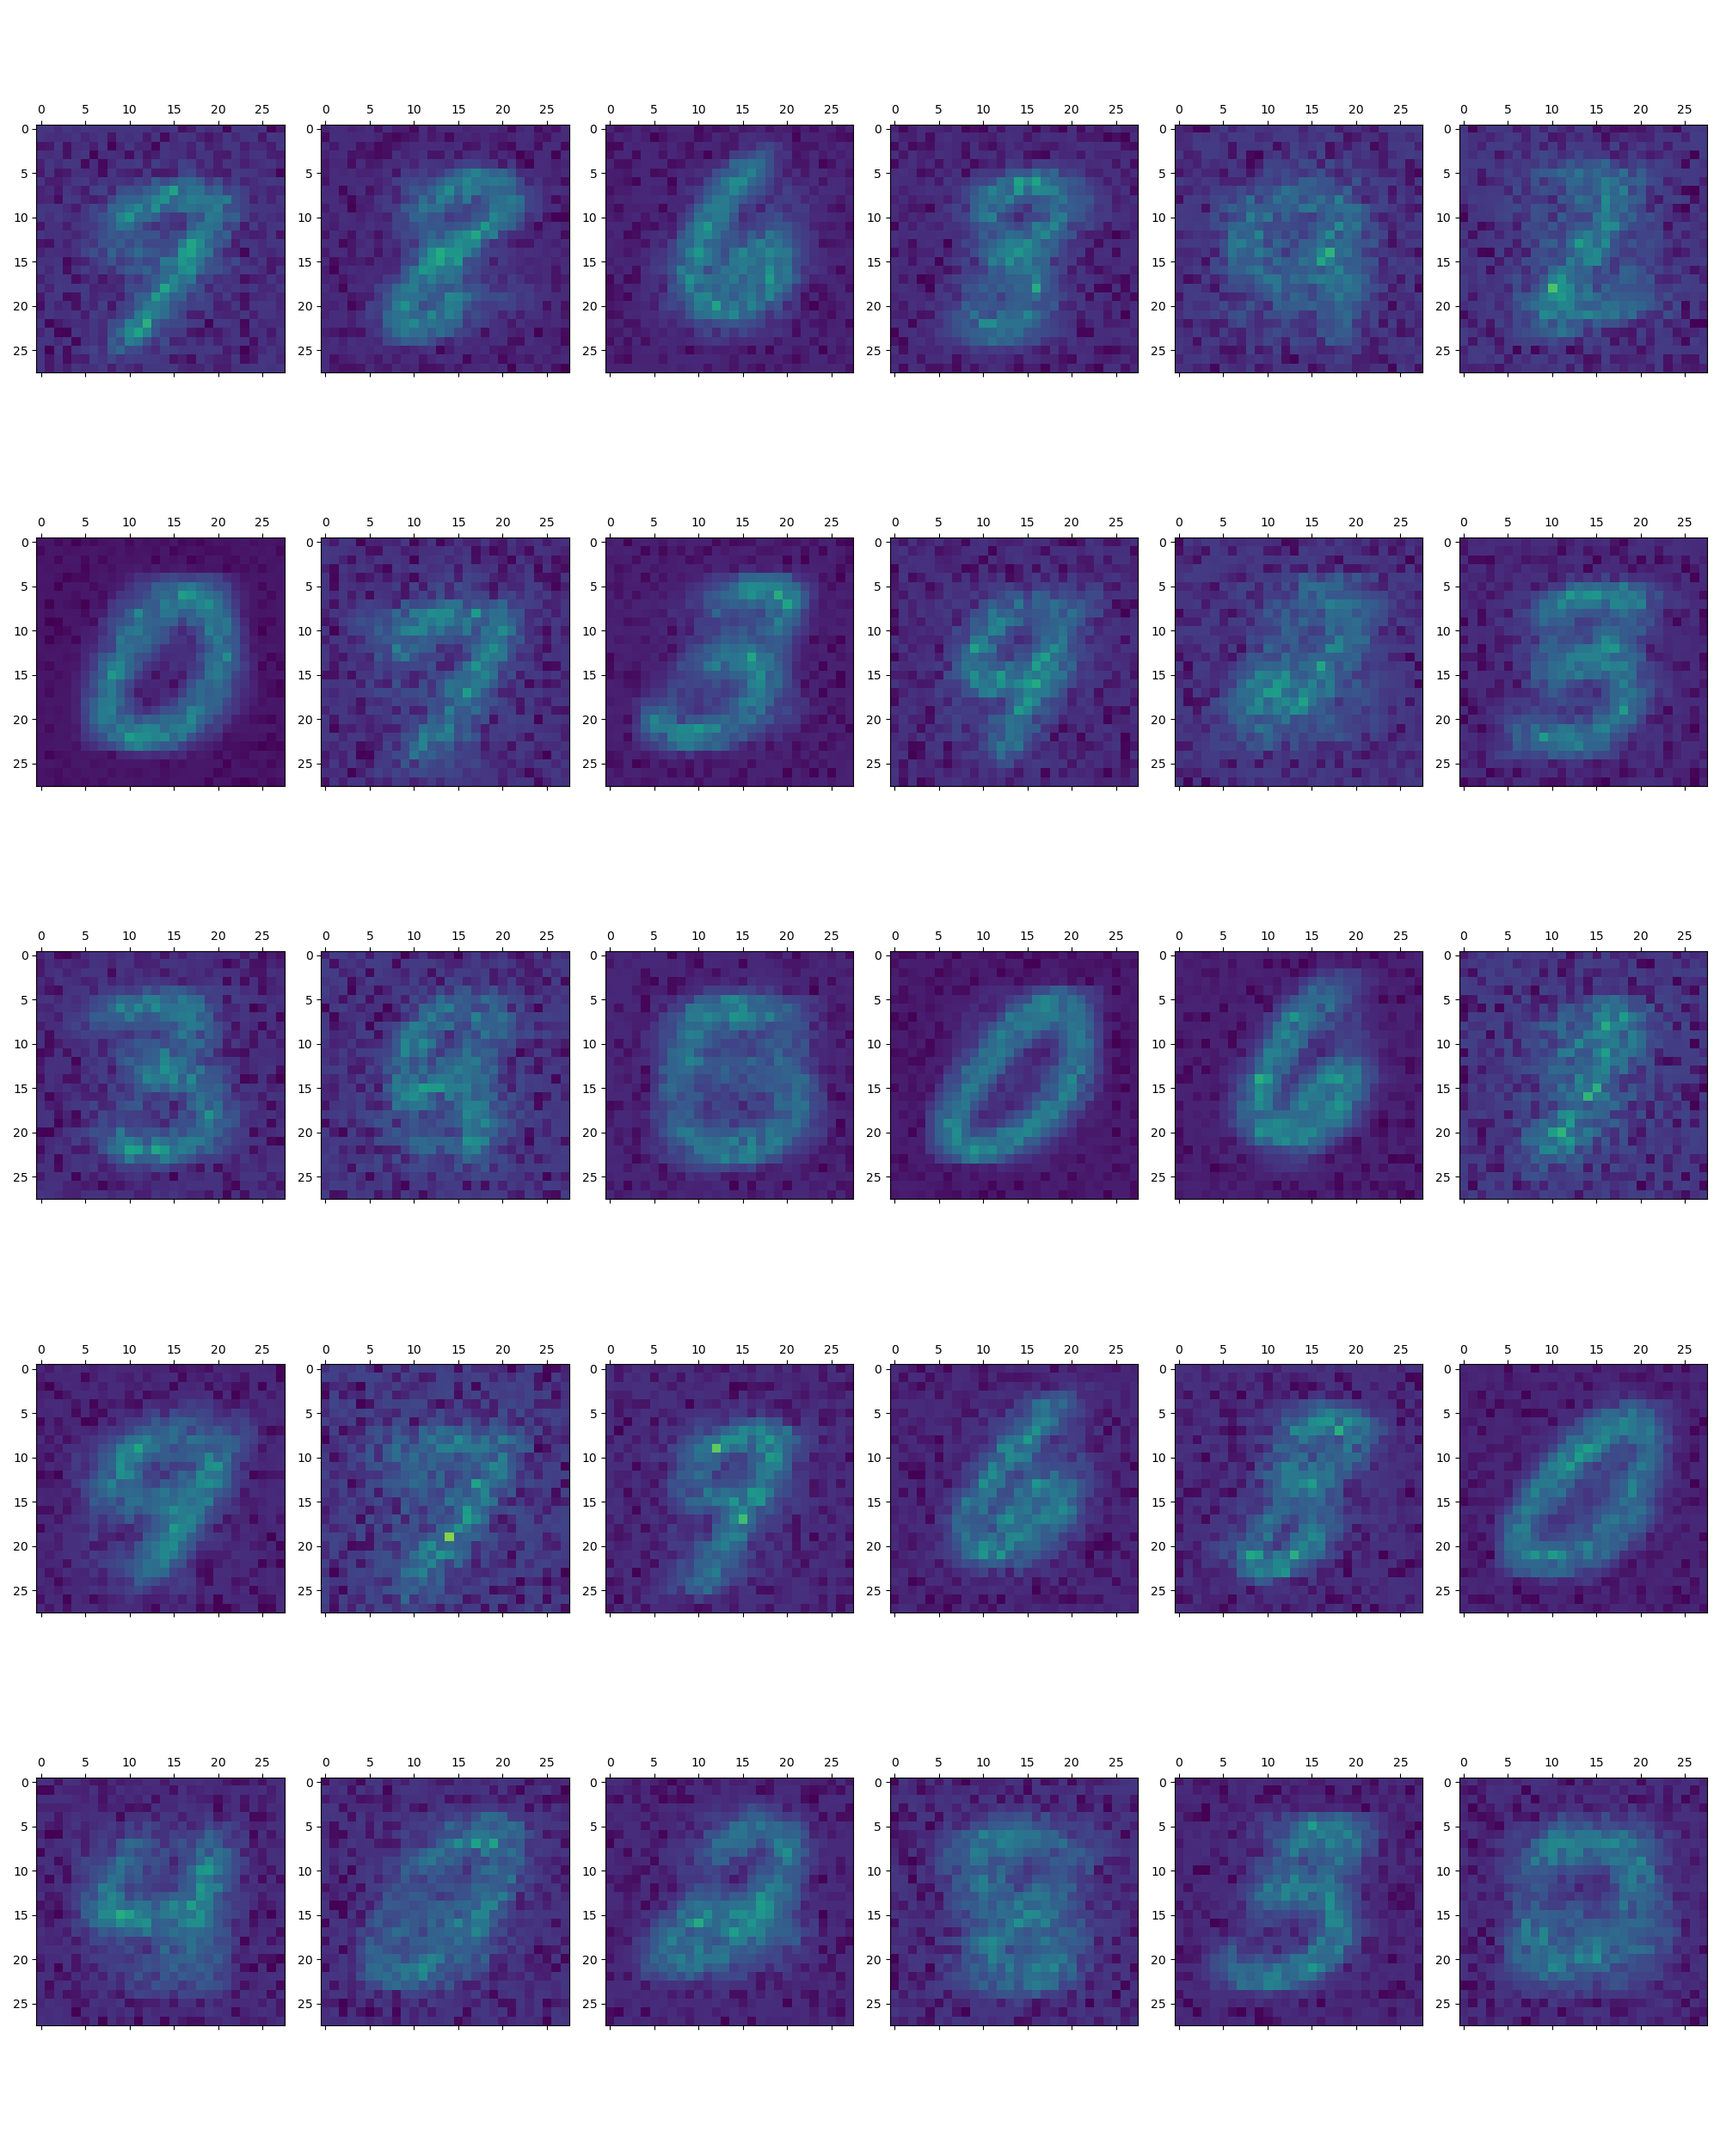
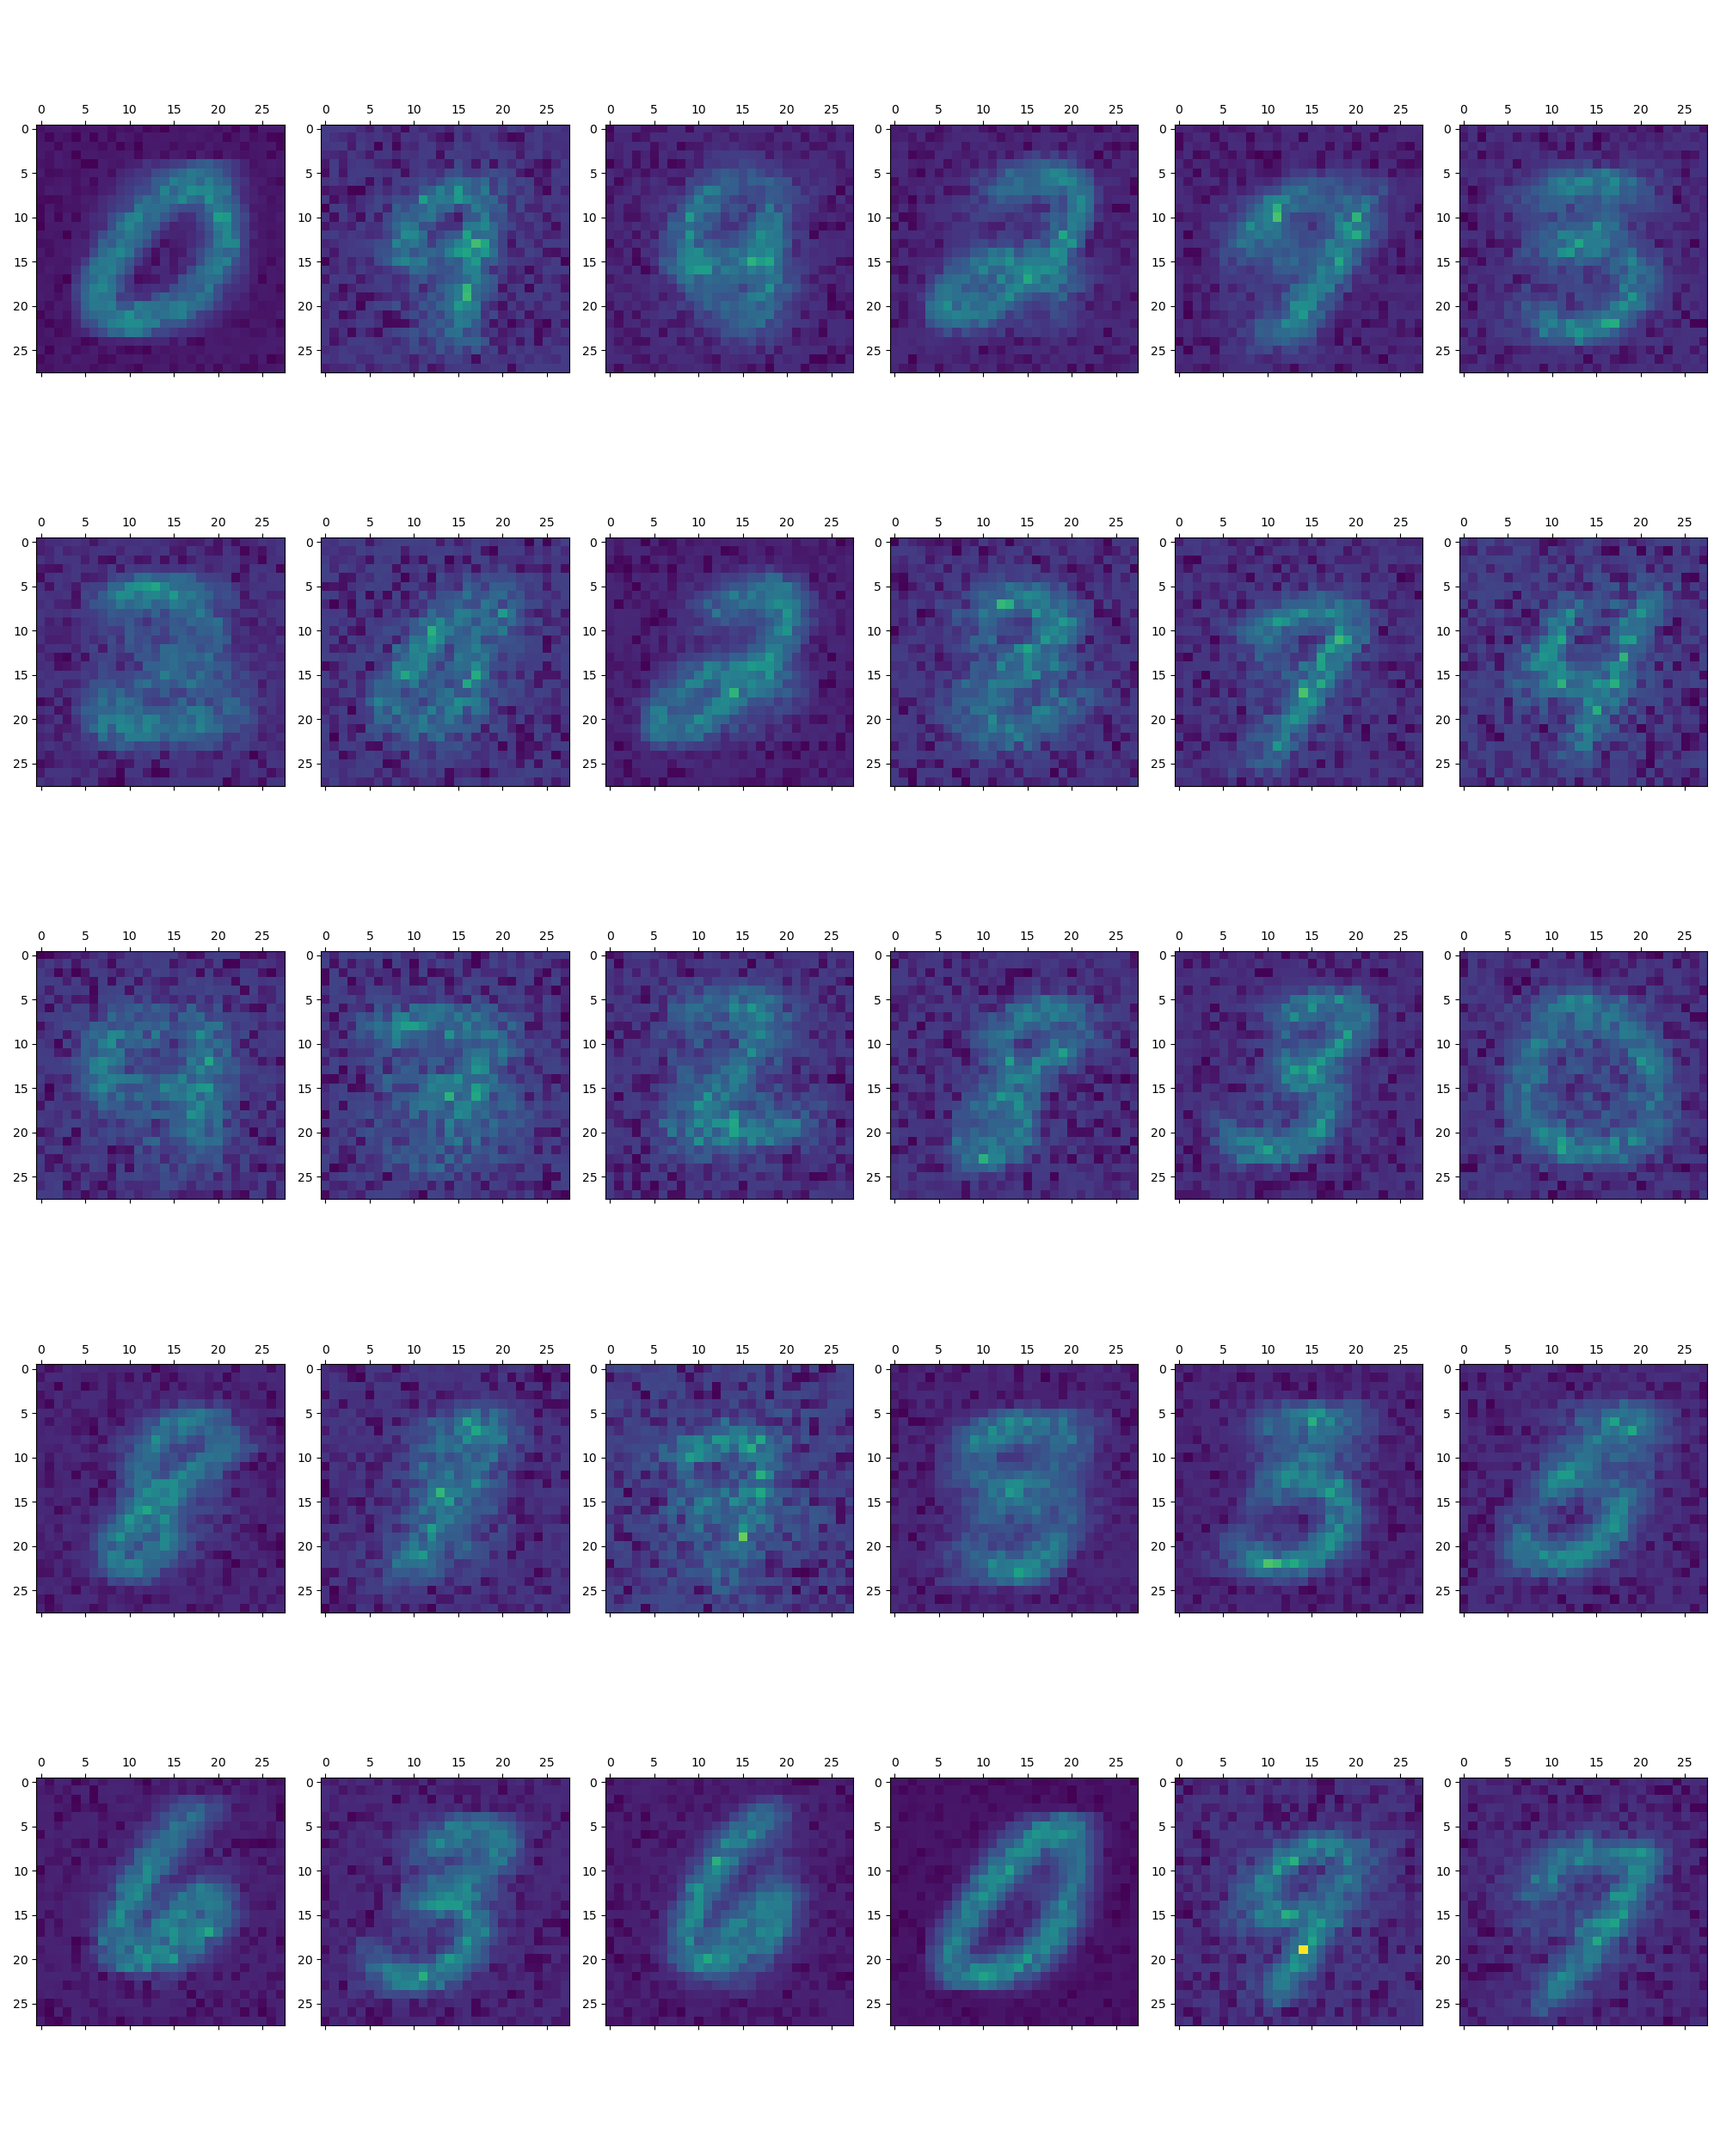
updates

diff --git a/mnist_multiple_exploration_local_tio2.py b/mnist_multiple_exploration_local_tio2.py
@@ -65,7 +65,7 @@ if __name__ == '__main__':
 		, n_neurons = [30]
 		, inhibition_time = [5,10,20]
 		, vprog_increment=[0]
-		, tau_ref=[0.001,0.002,0.003,0.004,0.005,0.01]
+		, tau_ref=[0.002,0.005,0.01]
     )
 	param_values = [v for v in parameters.values()]
 

diff --git a/mnist_multiple_exploration_tio2_v1.py b/mnist_multiple_exploration_tio2_v1.py
@@ -58,7 +58,7 @@ if __name__ == '__main__':
 		,input_nbr=[60000]
 		,tau_in = [0.06]
 		,tau_out = [0.06]
-		, lr = [1]
+		, lr = [0.1]
 		, iterations=[1]
 		, presentation_time = [0.35]
 		, dt = [0.005]

diff --git a/mnist_multiple_exploration_tio2_v2.py b/mnist_multiple_exploration_tio2_v2.py
@@ -58,7 +58,7 @@ if __name__ == '__main__':
 		,input_nbr=[60000]
 		,tau_in = [0.06]
 		,tau_out = [0.06]
-		, lr = [1]
+		, lr = [0.1]
 		, iterations=[1]
 		, presentation_time = [0.35]
 		, dt = [0.005]

diff --git a/mnist_multiple_exploration_tio2_v3.py b/mnist_multiple_exploration_tio2_v3.py
@@ -58,7 +58,7 @@ if __name__ == '__main__':
 		,input_nbr=[60000]
 		,tau_in = [0.06]
 		,tau_out = [0.06]
-		, lr = [1]
+		, lr = [0.1]
 		, iterations=[1]
 		, presentation_time = [0.35]
 		, dt = [0.005]

diff --git a/mnist_multiple_exploration_tio2_v4.py b/mnist_multiple_exploration_tio2_v4.py
@@ -58,7 +58,7 @@ if __name__ == '__main__':
 		,input_nbr=[60000]
 		,tau_in = [0.06]
 		,tau_out = [0.06]
-		, lr = [1]
+		, lr = [0.1]
 		, iterations=[1]
 		, presentation_time = [0.35]
 		, dt = [0.005]

diff --git a/mnist_multiple_exploration_tio2_v5.py b/mnist_multiple_exploration_tio2_v5.py
@@ -58,7 +58,7 @@ if __name__ == '__main__':
 		,input_nbr=[60000]
 		,tau_in = [0.06]
 		,tau_out = [0.06]
-		, lr = [1]
+		, lr = [0.1]
 		, iterations=[2]
 		, presentation_time = [0.35]
 		, dt = [0.005]

diff --git a/mnist_multiple_exploration_tio2_v6.py b/mnist_multiple_exploration_tio2_v6.py
@@ -58,7 +58,7 @@ if __name__ == '__main__':
 		,input_nbr=[60000]
 		,tau_in = [0.06]
 		,tau_out = [0.06]
-		, lr = [1]
+		, lr = [0.1]
 		, iterations=[2]
 		, presentation_time = [0.35]
 		, dt = [0.005]

diff --git a/mnist_multiple_exploration_tio2_v7.py b/mnist_multiple_exploration_tio2_v7.py
@@ -58,7 +58,7 @@ if __name__ == '__main__':
 		,input_nbr=[60000]
 		,tau_in = [0.06]
 		,tau_out = [0.06]
-		, lr = [1]
+		, lr = [0.1]
 		, iterations=[2]
 		, presentation_time = [0.35]
 		, dt = [0.005]
